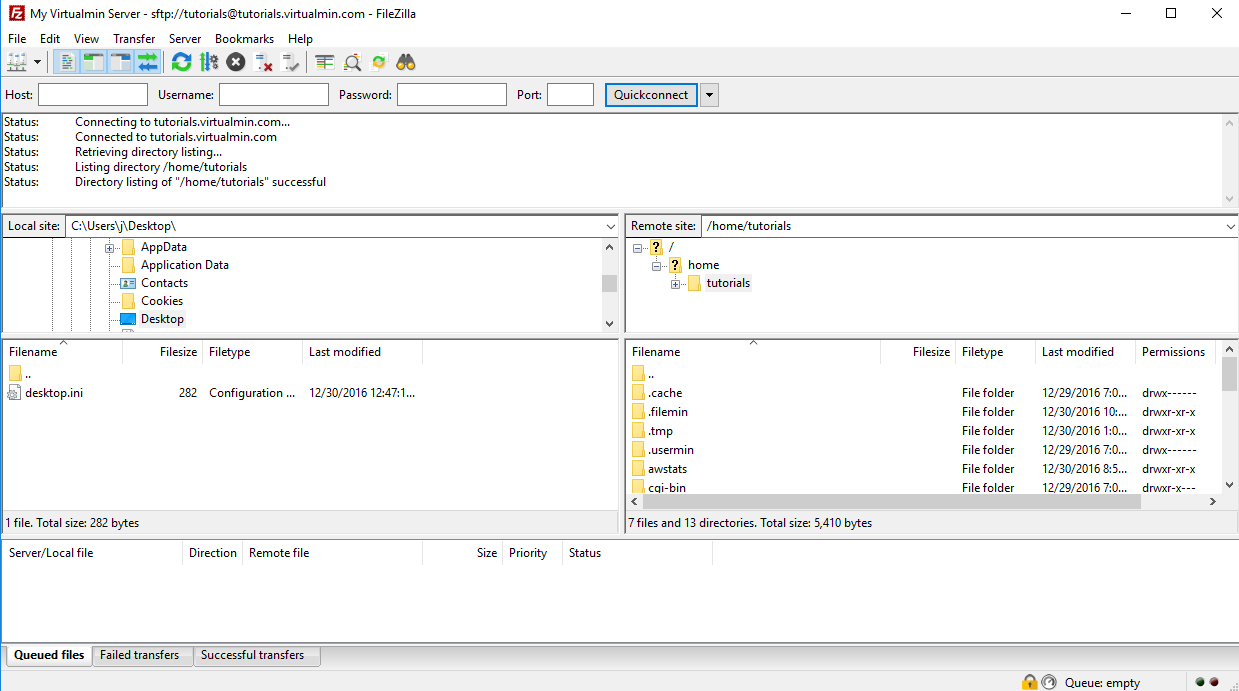
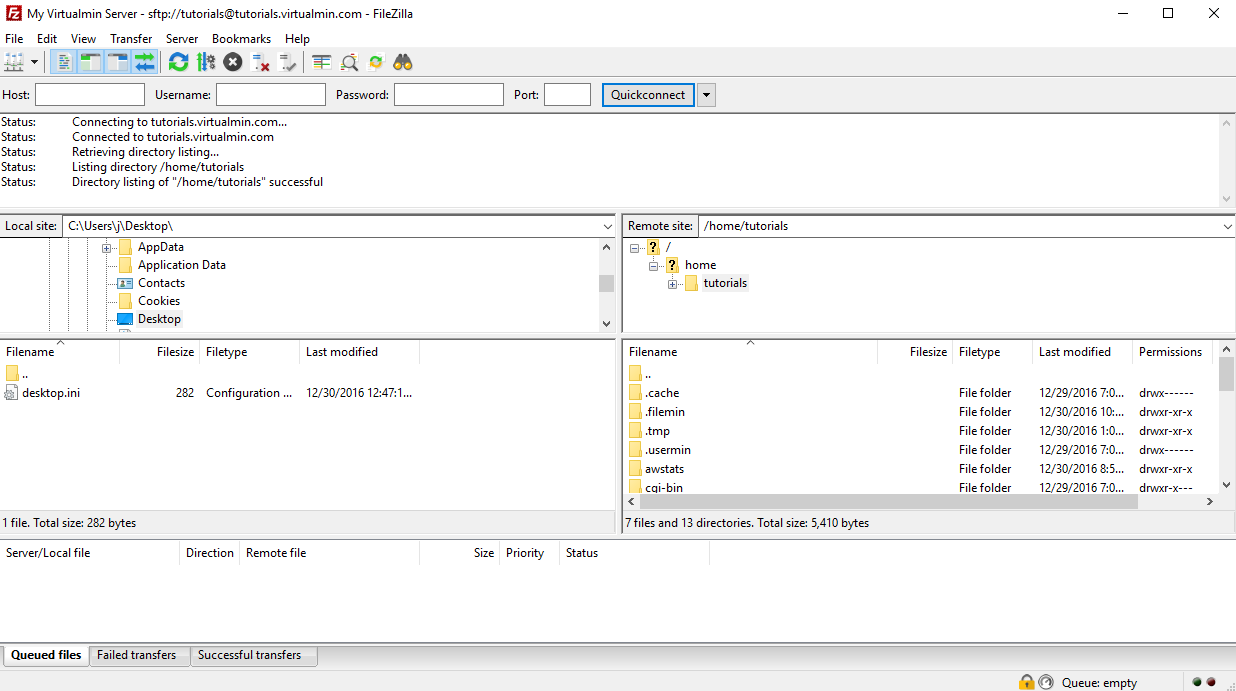
Fix formatting and cropping

diff --git a/how_to_upload_files.md b/how_to_upload_files.md
@@ -51,11 +51,10 @@ The following steps cover configuring a site in Filezilla and uploading a file t
    _Logon Type:_ Select _Ask for password_ (so your password is not stored in clear text on the computer)
 
    _User:_ Enter the username for the Virtualmin user of the site you want to upload files for
+
 ![Setup a new site in Filezilla](tutorials/upload_file/filezilla_site_manager_site_configured_cropped.png "Setup a new site in Filezilla")
 
-1. Click the _Connect_ button
-
-(If you're prompted to accept the SSH key from the host, click the _OK_ button)
+1. Click the _Connect_ button (If you're prompted to accept the SSH key from the host, click the _OK_ button)
 
 1. Enter the password for the user you entered previously
 ![Enter the password for the site at the Filezilla prompt](tutorials/upload_file/filezilla_password_prompt_cropped.png "Enter the password for the site at the Filezilla prompt")
